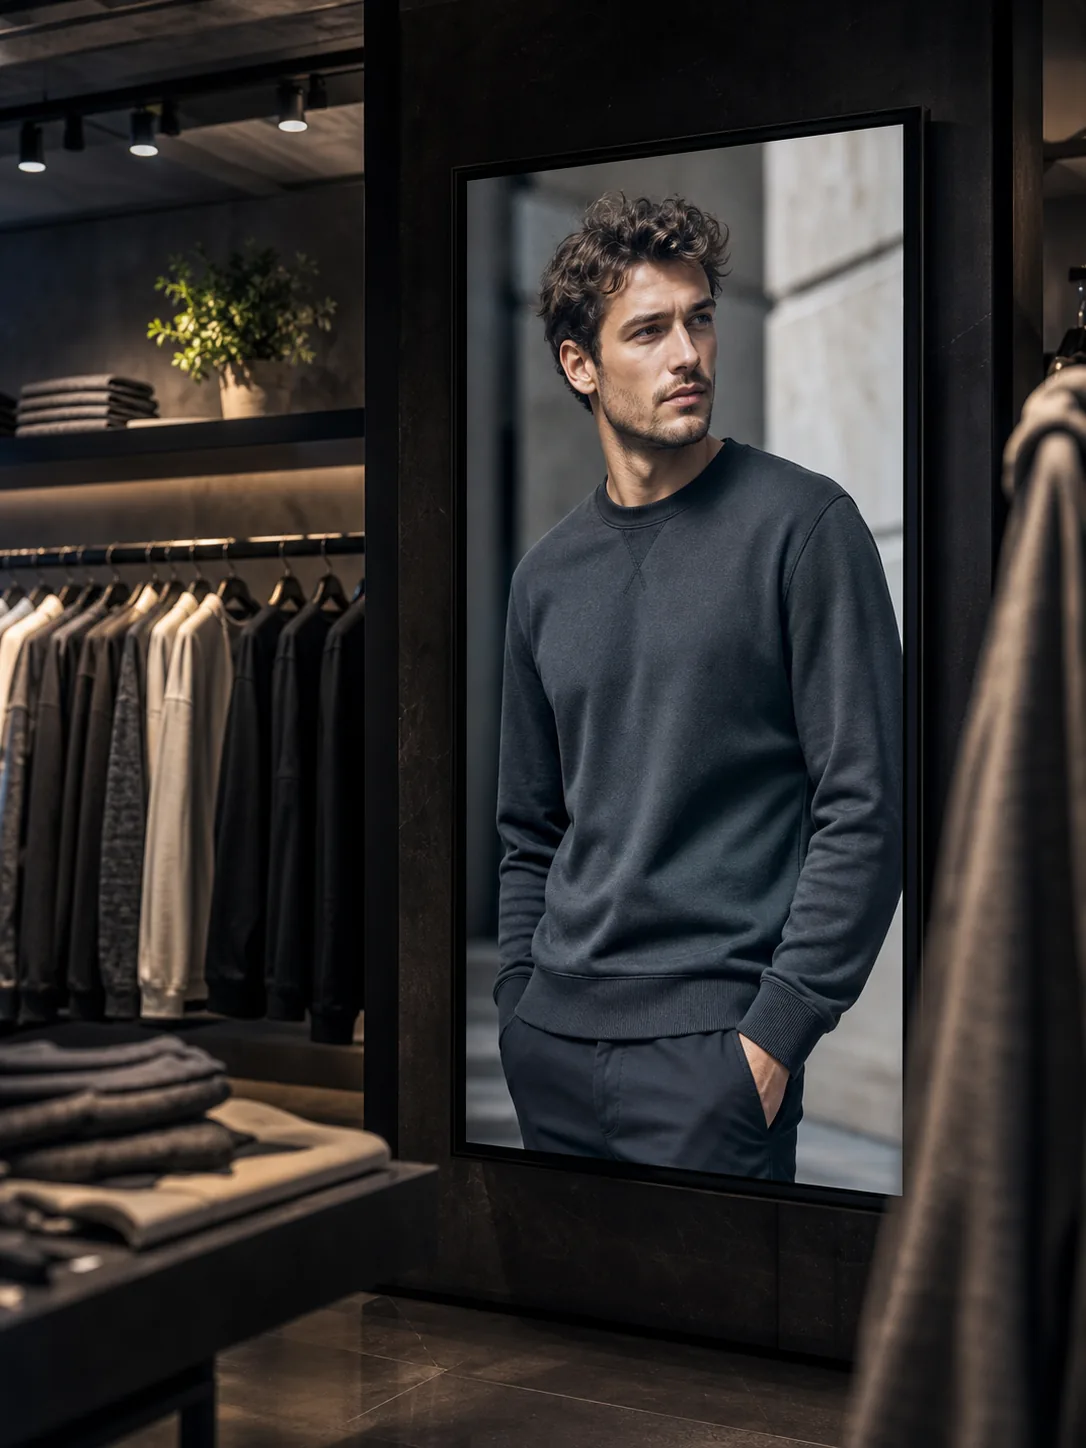
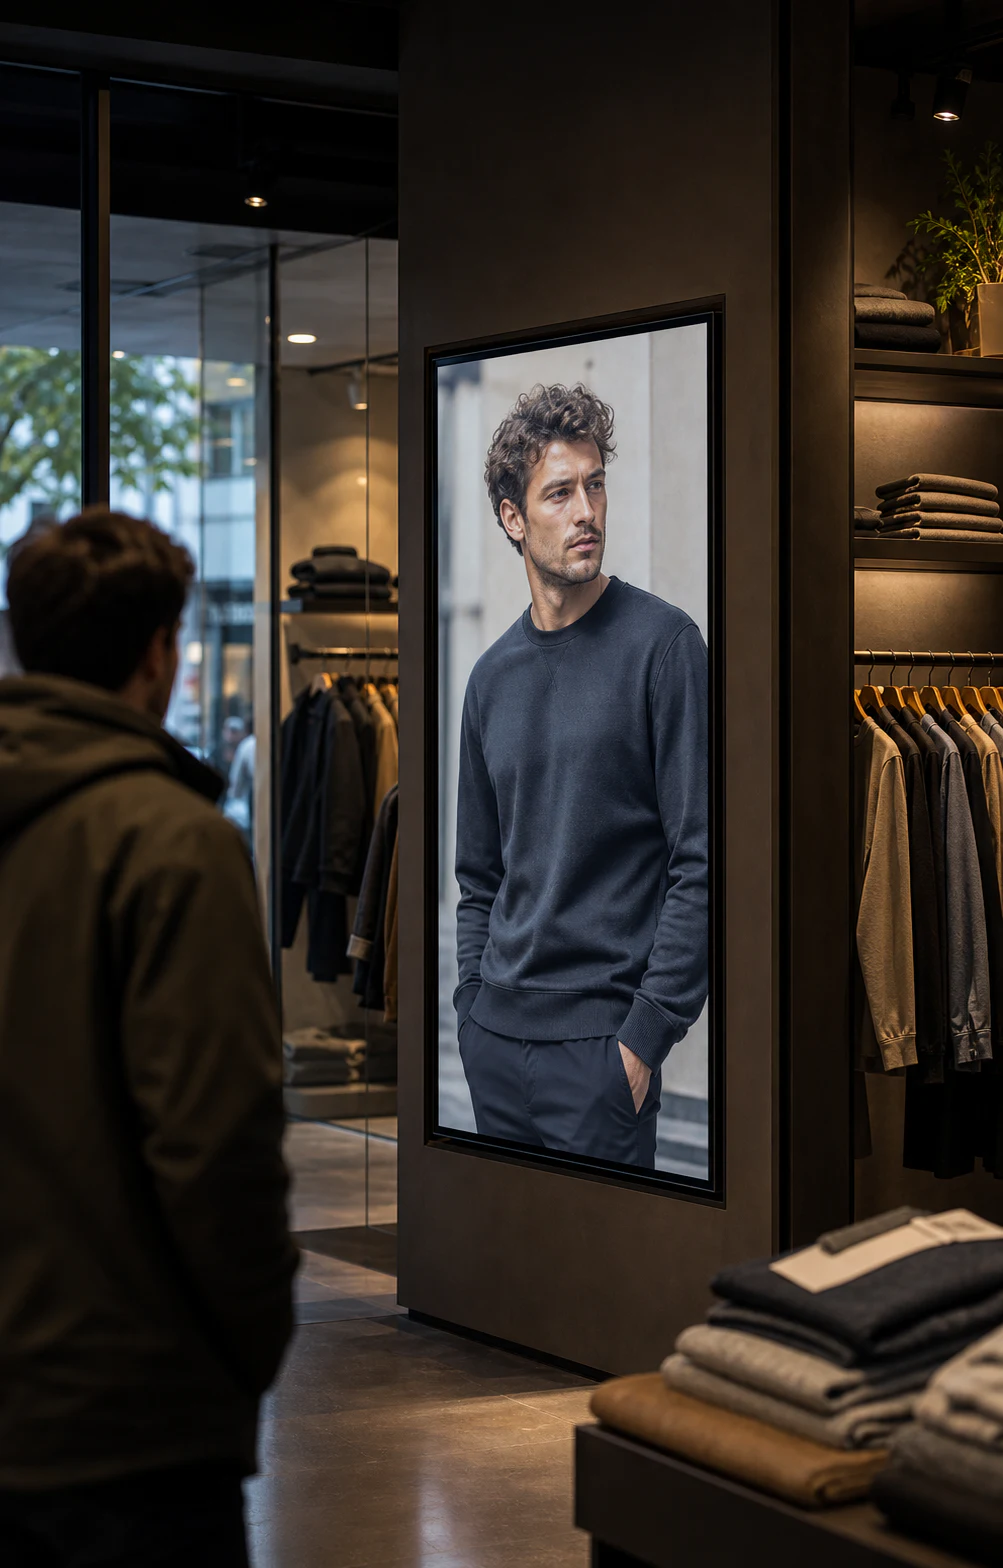
Reordena galeria visual por filas

diff --git a/components/sections/visual-gallery.tsx b/components/sections/visual-gallery.tsx
@@ -6,7 +6,12 @@ import { useEffect, useRef, useState } from "react"
 import { Wand2, Image as ImageIcon, RefreshCw, Tv, Sparkles, X } from "lucide-react"
 import { useTranslations } from "@/i18n"
 import { useLightweightMotion } from "@/components/motion-performance-provider"
-import { visualGalleryItems, type VisualGalleryItem } from "@/content/visual-gallery"
+import {
+  visualGalleryItems,
+  visualGalleryRowPattern,
+  type VisualGalleryItem,
+  type VisualGalleryRowPattern,
+} from "@/content/visual-gallery"
 
 type CategoryKey = "category1" | "category2" | "category3" | "category4"
 
@@ -22,6 +27,54 @@ const categoryAccents: Record<CategoryKey, string> = {
   category2: "from-accent-cyan to-accent-violet",
   category3: "from-accent-violet to-accent-magenta",
   category4: "from-accent-magenta to-primary",
+}
+
+type GalleryRow = {
+  id: string
+  pattern: VisualGalleryRowPattern
+  items: VisualGalleryItem[]
+}
+
+function buildGalleryRows(items: VisualGalleryItem[]) {
+  const rows: GalleryRow[] = []
+  let cursor = 0
+  let patternIndex = 0
+
+  while (cursor < items.length) {
+    const pattern = visualGalleryRowPattern[patternIndex % visualGalleryRowPattern.length]
+    const rowItems = items.slice(cursor, cursor + pattern.length)
+
+    rows.push({
+      id: rowItems.map((item) => item.id).join("-"),
+      pattern,
+      items: rowItems,
+    })
+
+    cursor += pattern.length
+    patternIndex += 1
+  }
+
+  return rows
+}
+
+function getGalleryItemClasses(item: VisualGalleryItem, row: GalleryRow) {
+  if (row.items.length === 1) {
+    return "w-full"
+  }
+
+  return item.orientation === "vertical" ? "md:col-span-5" : "md:col-span-7"
+}
+
+function getGalleryItemSizes(item: VisualGalleryItem, row: GalleryRow) {
+  if (row.items.length === 1) {
+    return "(min-width: 1280px) 1040px, (min-width: 768px) 82vw, 100vw"
+  }
+
+  if (item.orientation === "vertical") {
+    return "(min-width: 1280px) 470px, (min-width: 768px) 42vw, 100vw"
+  }
+
+  return "(min-width: 1280px) 650px, (min-width: 768px) 58vw, 100vw"
 }
 
 function CategoryCard({
@@ -109,15 +162,19 @@ function CategoryCard({
 function GalleryItem({
   item,
   index,
+  className,
+  sizes,
   lightweightMotion,
   onOpen,
 }: {
   item: VisualGalleryItem
   index: number
+  className: string
+  sizes: string
   lightweightMotion: boolean
   onOpen: (item: VisualGalleryItem) => void
 }) {
-  const ref = useRef<HTMLDivElement>(null)
+  const ref = useRef<HTMLButtonElement>(null)
   const isInView = useInView(ref, { once: true, margin: "180px" })
   const [isHovered, setIsHovered] = useState(false)
 
@@ -148,7 +205,9 @@ function GalleryItem({
       onMouseEnter={lightweightMotion ? undefined : () => setIsHovered(true)}
       onMouseLeave={lightweightMotion ? undefined : () => setIsHovered(false)}
       onClick={() => onOpen(item)}
-      className={`${item.span} ${item.aspect} rounded-2xl overflow-hidden group relative cursor-zoom-in text-left focus-visible:outline-none focus-visible:ring-2 focus-visible:ring-primary focus-visible:ring-offset-2 focus-visible:ring-offset-background`}
+      data-gallery-item={item.id}
+      data-gallery-orientation={item.orientation}
+      className={`${className} ${item.aspectClass ?? "aspect-[4/3]"} group relative overflow-hidden rounded-2xl text-left cursor-zoom-in focus-visible:outline-none focus-visible:ring-2 focus-visible:ring-primary focus-visible:ring-offset-2 focus-visible:ring-offset-background`}
       aria-label={`Ampliar imagen: ${item.alt}`}
     >
       <div className={`absolute inset-0 bg-gradient-to-br ${item.gradient}`} />
@@ -162,8 +221,8 @@ function GalleryItem({
           src={item.src}
           alt={item.alt}
           fill
-          sizes={item.sizes}
-          className="object-cover"
+          sizes={sizes}
+          className={`object-cover ${item.objectPosition ?? "object-center"}`}
         />
       </motion.div>
 
@@ -189,6 +248,7 @@ export function VisualGallery() {
   const isHeaderInView = useInView(headerRef, { once: true, margin: "-100px" })
   const lightweightMotion = useLightweightMotion()
   const [activeItem, setActiveItem] = useState<VisualGalleryItem | null>(null)
+  const galleryRows = buildGalleryRows(visualGalleryItems)
   
   const { scrollYProgress } = useScroll({
     target: sectionRef,
@@ -330,16 +390,30 @@ export function VisualGallery() {
           />
         </motion.div>
 
-        {/* Gallery grid with masonry-style reveals */}
-        <div className="columns-1 gap-6 md:columns-2">
-          {visualGalleryItems.map((item, index) => (
-            <GalleryItem
-              key={item.id}
-              item={item}
-              index={index}
-              lightweightMotion={lightweightMotion}
-              onOpen={setActiveItem}
-            />
+        {/* Gallery rows with predictable vertical/horizontal pairing. */}
+        <div className="space-y-6 md:space-y-8">
+          {galleryRows.map((row, rowIndex) => (
+            <div
+              key={row.id}
+              className={
+                row.items.length === 1
+                  ? "mx-auto grid max-w-5xl grid-cols-1"
+                  : "grid grid-cols-1 gap-6 md:grid-cols-12 md:items-center md:gap-8"
+              }
+              data-gallery-row-pattern={row.pattern.join("-")}
+            >
+              {row.items.map((item, itemIndex) => (
+                <GalleryItem
+                  key={item.id}
+                  item={item}
+                  index={rowIndex * 2 + itemIndex}
+                  className={getGalleryItemClasses(item, row)}
+                  sizes={getGalleryItemSizes(item, row)}
+                  lightweightMotion={lightweightMotion}
+                  onOpen={setActiveItem}
+                />
+              ))}
+            </div>
           ))}
         </div>
       </div>

diff --git a/content/visual-gallery.ts b/content/visual-gallery.ts
@@ -1,58 +1,66 @@
 export type VisualGalleryItem = {
   id: string
-  aspect: string
-  span: string
+  orientation: "vertical" | "horizontal"
+  aspectClass?: string
+  objectPosition?: string
   gradient: string
   src: string
-  sizes: string
   alt: string
 }
 
+export type VisualGalleryRowPattern = Array<VisualGalleryItem["orientation"]>
+
 // Add, remove or reorder visual proof assets here without touching the gallery component.
+// Use `orientation` to let the gallery build balanced rows automatically.
+// Current pattern:
+// 1) vertical + horizontal
+// 2) horizontal + vertical
+// 3) horizontal alone
+export const visualGalleryRowPattern: VisualGalleryRowPattern[] = [
+  ["vertical", "horizontal"],
+  ["horizontal", "vertical"],
+  ["horizontal"],
+]
+
 export const visualGalleryItems: VisualGalleryItem[] = [
   {
     id: "studio-editing",
-    aspect: "aspect-[4/5]",
-    span: "mb-6 inline-block w-full break-inside-avoid align-top",
+    orientation: "vertical",
+    aspectClass: "aspect-[3/4]",
     gradient: "from-primary/20 to-accent-cyan/20",
     src: "/visuals/ai-image-enhancement-real.webp",
-    sizes: "(min-width: 768px) 45vw, 100vw",
     alt: "Pantalla de edicion con una prenda personalizada sobre una persona",
   },
   {
     id: "sport-storefront",
-    aspect: "aspect-video",
-    span: "mb-6 inline-block w-full break-inside-avoid align-top",
+    orientation: "horizontal",
+    aspectClass: "aspect-[4/3]",
     gradient: "from-accent-cyan/20 to-accent-violet/20",
     src: "/visuals/escaparate-01.webp",
-    sizes: "(min-width: 768px) 45vw, 100vw",
     alt: "Escaparate realista con pantalla comercial para una tienda deportiva",
   },
   {
     id: "motion-editing",
-    aspect: "aspect-video",
-    span: "mb-6 inline-block w-full break-inside-avoid align-top",
+    orientation: "horizontal",
+    aspectClass: "aspect-[4/3]",
     gradient: "from-accent-violet/20 to-accent-magenta/20",
     src: "/visuals/real-motion-editing.webp",
-    sizes: "(min-width: 768px) 45vw, 100vw",
     alt: "Edicion realista de contenido en video para web y redes",
   },
   {
     id: "retail-screen-clothing",
-    aspect: "aspect-[4/5]",
-    span: "mb-6 inline-block w-full break-inside-avoid align-top",
+    orientation: "vertical",
+    aspectClass: "aspect-[3/4]",
     gradient: "from-accent-magenta/20 to-primary/20",
     src: "/visuals/retail-screen-clothing.webp",
-    sizes: "(min-width: 768px) 45vw, 100vw",
-    alt: "Pantalla vertical en tienda mostrando una prenda sobre una persona",
+    alt: "Pantalla digital integrada en el interior de una tienda de moda",
   },
   {
     id: "pet-storefront",
-    aspect: "aspect-[4/3]",
-    span: "mb-6 inline-block w-full break-inside-avoid align-top",
+    orientation: "horizontal",
+    aspectClass: "aspect-[16/9] md:aspect-[21/9]",
     gradient: "from-primary/10 via-accent-cyan/10 to-accent-violet/10",
     src: "/visuals/escaparate-02.webp",
-    sizes: "(min-width: 768px) 45vw, 100vw",
     alt: "Escaparate realista de tienda de animales con pantalla comercial",
   },
 ]

diff --git a/LAST_REPORT.md b/LAST_REPORT.md
@@ -2,6 +2,65 @@
 
 Fecha: 2026-07-01
 
+## Actualizacion - Layout modular de galeria visual
+
+### Objetivo
+
+Ejecutar la nueva prioridad de Carlos: ajustar la galeria de visuales a una composicion concreta, dejarla preparada para crecer facilmente y sustituir la imagen de pantalla en tienda que no parecia un display real.
+
+### Cambios aplicados
+
+- `content/visual-gallery.ts`:
+  - cada pieza declara ahora `orientation` (`vertical` u `horizontal`);
+  - se documenta el patron actual de filas:
+    - primera fila: vertical + horizontal;
+    - segunda fila: horizontal + vertical;
+    - ultimo bloque: horizontal sola;
+  - se elimina la dependencia de clases `span`/masonry en el contenido.
+- `components/sections/visual-gallery.tsx`:
+  - la galeria deja de usar columnas automaticas y pasa a filas controladas;
+  - no hay margenes negativos ni solapes intencionados;
+  - el componente construye filas a partir de `visualGalleryRowPattern`, preparado para anadir nuevas piezas cambiando datos;
+  - se mantienen animaciones, hover y lightbox casi a pantalla completa;
+  - se anaden atributos internos `data-gallery-*` para QA y futuras comprobaciones sin impacto visual.
+- `public/visuals/retail-screen-clothing.webp`:
+  - sustituido por una escena nueva generada con `imagegen`;
+  - ahora muestra una pantalla digital fisica integrada en una tienda de moda, con marco real, reflejos, ropa, luz de tienda y una persona desenfocada en primer plano;
+  - WebP optimizado: 1003 x 1568 px, 129.984 bytes.
+
+### Validaciones ejecutadas
+
+- `npm install`: no fue necesario; `node_modules` ya existia.
+- `npm run build`: OK.
+- `npm run lint`: falla por deuda previa; `eslint` no esta disponible como ejecutable del proyecto.
+- QA local en `http://localhost:3052`:
+  - escritorio 1440 x 1100:
+    - 5 imagenes detectadas;
+    - fila 1: `vertical:studio-editing` + `horizontal:sport-storefront`;
+    - fila 2: `horizontal:motion-editing` + `vertical:retail-screen-clothing`;
+    - fila 3: `horizontal:pet-storefront`;
+    - sin scroll horizontal;
+    - sin solapes entre imagenes;
+    - lightbox visible con marco de 1382 x 968 px y fondo bloqueado.
+  - movil 390 x 844:
+    - imagenes apiladas a ancho util completo tras animacion;
+    - sin scroll horizontal;
+    - sin solapes;
+    - lightbox visible con marco de 366 x 743 px y fondo bloqueado;
+    - aviso de construccion visible;
+    - microetiqueta `¿Dudas?` visible;
+    - no aparece `Preguntame sobre Aplaudia`;
+    - chatbot abre correctamente y mantiene el textarea.
+
+### Estado
+
+- Cambio validado localmente.
+- Pendiente de commit, push y verificacion de produccion/Railway.
+
+### Siguiente paso recomendado
+
+Desplegar y revisar en movil real `https://aplaudia.com` la nueva composicion. Si Carlos aprueba el enfoque, el siguiente foco visual sera decidir nuevas piezas 6/7 o preparar un primer video corto usando esta misma linea realista.
+
 ## Actualizacion - Chatbot, agente y visuales
 
 ### Objetivo

diff --git a/NEXT_TASK.md b/NEXT_TASK.md
@@ -17,14 +17,27 @@ Nivel de inteligencia recomendado: Extremadamente alto
   - galeria visual sin solapes raros;
   - lightbox de visuales a pantalla casi completa.
 
+## Estado adicional tras la galeria visual
+
+- Composicion por filas preparada para crecer:
+  - primera fila: vertical + horizontal;
+  - segunda fila: horizontal + vertical;
+  - ultimo bloque: horizontal sola.
+- `content/visual-gallery.ts` permite cambiar orden y orientacion sin tocar el componente.
+- Sustituida la pantalla de tienda problematica por una version mas realista.
+- QA local escritorio y movil sin solapes ni scroll horizontal.
+
 ## Proximo foco real
 
-1. Revisar en movil real `https://aplaudia.com`:
-   - etiqueta `¿Dudas?`;
-   - galeria de visuales;
+1. Revisar en movil real `https://aplaudia.com` tras el despliegue:
+   - nueva composicion de la galeria visual;
+   - nueva imagen de pantalla integrada en tienda;
    - lightbox de visuales;
    - aviso de construccion y chatbot sin solapes.
-2. Ajustar si Carlos quiere otra distribucion visual de las imagenes.
+2. Si la linea visual queda aprobada, decidir siguientes piezas:
+   - sexta/septima imagen;
+   - primer video corto o animacion con los escaparates;
+   - variantes mas luminosas si se quiere reducir tono oscuro.
 3. Probar mas conversaciones reales del agente en produccion y afinar `content/agent/aplaudia-agent.md` si alguna respuesta se sale de tono, precio o ambito.
 4. Continuar con legal/contacto antes de retirar el aviso de construccion.
 